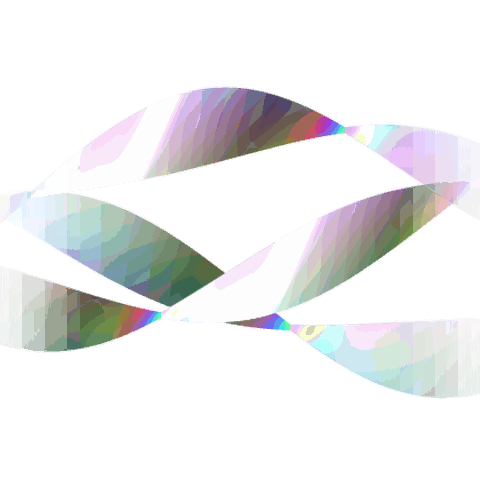
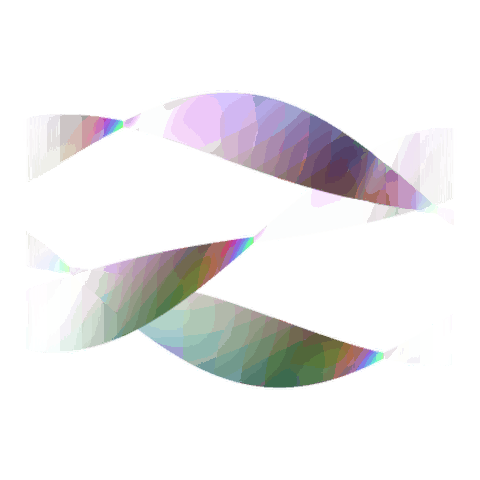
feat(menu): move the WebGL ribbon from the hero into the mobile menu
The hero keeps the glass orb and the dot sphere. The ribbon now sits in the
free space above the menu actions (behind the content, hidden on screens
shorter than 760px) and only starts rendering when the menu is opened.
Ribbon ends now fade out before the canvas edge; posters refreshed.

diff --git a/src/shapes/shaders.ts b/src/shapes/shaders.ts
@@ -57,7 +57,7 @@ float d=uv.y-y0,ed=hw-abs(d);
 if(ed<-px)continue;
 float s=d/hw;
 vec3 n=normalize(vec3(-.35*cos(x*1.5+T*.4+f*2.1),-sin(ph)*sign(cp)+s*.25,abs(cp)+.05));
-float a=clamp(ed/px+.5,0.,1.)*smoothstep(1.08,.55,abs(x));
+float a=clamp(ed/px+.5,0.,1.)*smoothstep(.92,.4,abs(x));
 vec3 c=shade(n,vec3(0,0,-1))+film(s*.18+x*.12+f*.2+T*.03)*.18;
 o=vec4(c*a,a)+o*(1.-a);}
 gl_FragColor=o;}`;
